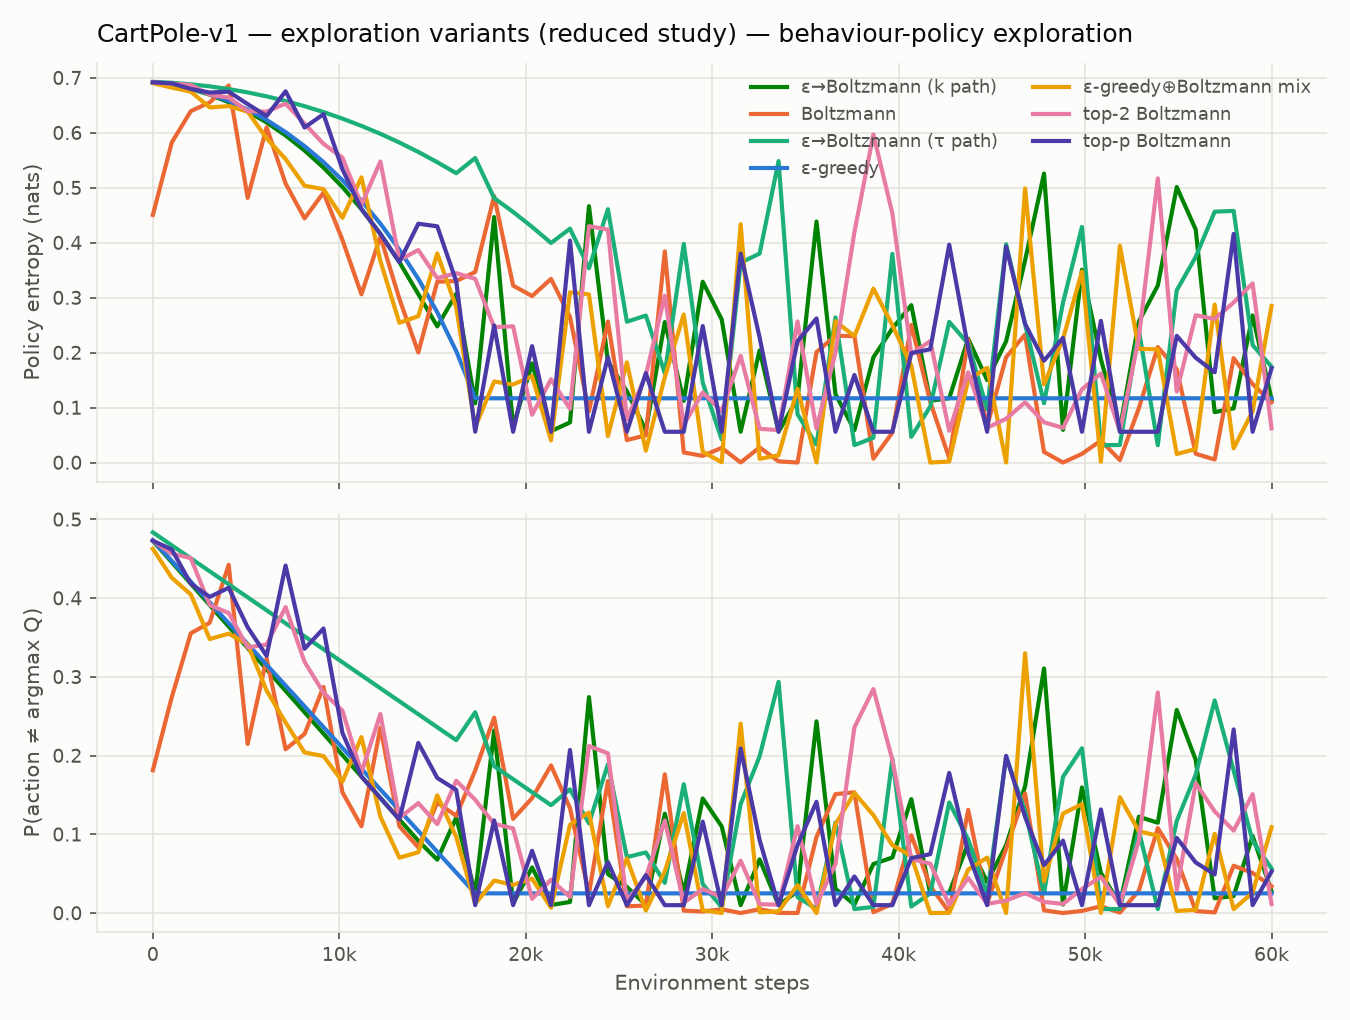
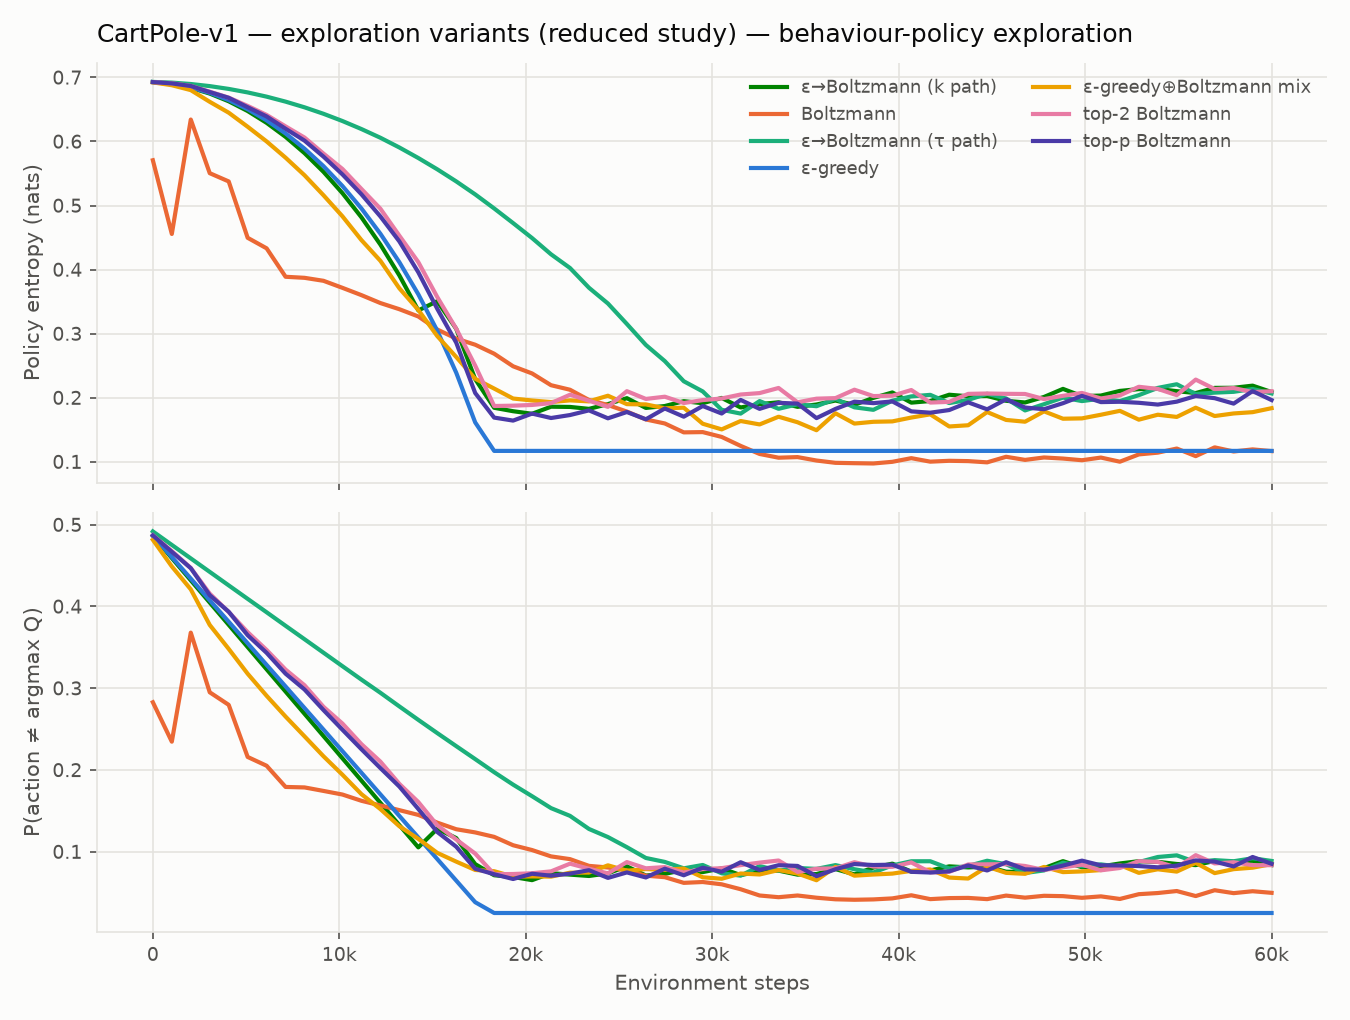
Wire the Acrobot sweeps into the plotting script
Adds titles for acrobot_gym and points the ablation and uncertainty studies at
their new environment. The uncertainty sweep's probability-of-improvement
column is measured against the ENSEMBLE epsilon-greedy arm rather than the
single-head one, so the comparison isolates the gating from the architecture
change; noted in a comment so it does not get "simplified" later.

Also drops the CartPole report figures' method sections into report/REPORT.md.

Claude-Session: https://claude.ai/code/session_015AaaE6tUtfkv4THqhLdQRM

diff --git a/scripts/make_plots.py b/scripts/make_plots.py
@@ -32,14 +32,20 @@ from e2b.plotting import (  # noqa: E402
 from e2b.results import group_by_env, load_sweep  # noqa: E402
 
 TITLES = {
-    "reduced_gym": "CartPole-v1 — exploration variants (reduced study)",
+    "reduced_gym": "CartPole-v1 — exploration variants",
+    "acrobot_gym": "Acrobot-v1 — exploration variants",
     "main_gym": "LunarLander-v3 — exploration variants",
-    "ablation_scaling": "LunarLander-v3 — Q-value scale normalisation ablation",
-    "uncertainty": "LunarLander-v3 — uncertainty-gated handover",
+    "ablation_scaling": "Acrobot-v1 — Q-value scale normalisation ablation",
+    "uncertainty": "Acrobot-v1 — uncertainty-gated handover",
     "full_gym": "Full study",
 }
 
-BASELINE = {"reduced_gym": "eps_greedy", "main_gym": "eps_greedy",
+# The arm each sweep's probability-of-improvement column is measured against.
+# For the uncertainty sweep this is the ENSEMBLE epsilon-greedy arm, not the
+# single-head one: comparing the gated arm against a single-head baseline would
+# confound the gating with the architecture change.
+BASELINE = {"reduced_gym": "eps_greedy", "acrobot_gym": "eps_greedy",
+            "main_gym": "eps_greedy",
             "ablation_scaling": "scaling_running", "uncertainty": "eps_greedy_ensemble",
             "full_gym": "eps_greedy"}
 

diff --git a/report/REPORT.md b/report/REPORT.md
@@ -1,0 +1,241 @@
+# From ε-greedy to Boltzmann: annealing exploration in DQN
+
+**RL course project — first iteration, OpenAI Gym environments.**
+
+---
+
+## 1. Problem
+
+ε-greedy is the default exploration strategy for discrete-action value-based
+agents. It is *uninformed*: with probability ε it draws uniformly from the whole
+action set, spending most of its exploration budget on actions the Q-function
+already ranks last. Boltzmann (softmax) exploration is *informed*: it samples in
+proportion to `exp(Q/τ)`, so exploration concentrates on actions that look good.
+
+The catch is that Boltzmann inherits whatever prior the Q-function encodes, and
+early in training that prior is noise. A softmax over a randomly initialised
+network is not a uniform policy — it is a policy *biased by initialisation
+noise*, which is strictly worse than the honest uniform draw ε-greedy makes. So
+the sensible thing is to start with ε-greedy and move to Boltzmann as Q becomes
+trustworthy.
+
+This project asks **how** to make that transfer, and measures whether it helps.
+
+## 2. Method: one policy family, several paths through it
+
+The design decision that organises everything here is to refuse to treat
+ε-greedy and Boltzmann as two separate strategies to be blended ad hoc. Instead,
+every variant is a point in a single parameterised family:
+
+```
+π(a|s) = ε_t · Uniform(A)  +  (1 − ε_t) · Softmax_{a ∈ TopK_t(Q)}( Q̃(s,·) / τ_t )
+```
+
+with three scheduled knobs — `ε_t` (uniform floor), `τ_t` (temperature), `k_t`
+(support size) — and a Q-scaling map `Q̃` discussed in §3.
+
+Both classic strategies are **exact** points in this family:
+
+| configuration | is exactly |
+|---|---|
+| `k = 1`, any `τ` | ε-greedy (the softmax support is the argmax set) |
+| `τ → 0`, `k = \|A\|` | ε-greedy (non-maximal exponents underflow to 0) |
+| `ε = 0`, `k = \|A\|` | pure Boltzmann |
+
+This is not a convenient approximation: `tests/test_policies.py` asserts these
+as exact array equalities against independently written reference
+implementations, across a grid of ε and τ, including the tie-breaking behaviour
+(both limits must spread mass uniformly over tied maxima — and ties are the norm
+at initialisation, when every action has near-identical Q).
+
+Having exact endpoints matters because it makes "annealing between them" a
+well-defined operation: a *path through (ε, τ, k) space*. The two ideas in the
+brief are then two different paths.
+
+**The temperature path** (`eps_boltzmann`, brief idea 1). Hold `k = |A|` and
+start at `τ = 10⁻⁴`, which makes the softmax an exact argmax, so the policy *is*
+ε-greedy. Then raise `τ` geometrically to 0.3 while `ε` falls from 1.0 to 0.01.
+The policy deforms continuously into pure Boltzmann without ever leaving the
+family.
+
+**The support path** (`anneal_k`, brief ideas 1+2). Hold `τ` fixed and grow `k`
+from 1 (again exactly ε-greedy) to `|A|` (full Boltzmann). The handover happens
+by *widening the support* rather than by raising the temperature.
+
+**The mixture path** (`mixture_anneal`, brief idea 1a). Interpolate the two
+action *distributions* outright: `π = (1−β)·π_ε-greedy + β·π_Boltzmann`. This is
+genuinely different from the temperature path, not a reparameterisation: at
+β = 0.5 the policy retains a real chance of a uniformly random action inherited
+from the ε-greedy component, even in states where Boltzmann is confident,
+whereas the temperature path passes through distributions that are neither
+endpoint. Which behaves better is an empirical question, and one of the things
+measured here.
+
+**Fixed small support** (`topk_boltzmann`, `topk3_boltzmann`, brief idea 2).
+Boltzmann over the top 2 or 3 actions with a decaying ε floor. The rationale
+from the brief: a noisy Q-function often ranks the truly-best action second, so
+spreading probability over the top few actions explores precisely the plausible
+alternatives. The ε floor is retained (decaying to 0.02) so that an action
+wrongly excluded from the top-k is not unreachable forever.
+
+**State-adaptive support** (`topp_boltzmann`). Nucleus sampling: the support is
+the smallest set of highest-Q actions whose softmax mass reaches `p = 0.9`.
+Where Q is peaked the support collapses towards greedy; where Q is flat — which
+is exactly where the agent has no basis for a preference — it widens. This
+spends exploration where the Q-function is undecided rather than uniformly in
+time.
+
+## 3. The detail that decides whether any of this works: Q-value scale
+
+A temperature is only meaningful relative to the spread of the values it
+divides, and that spread is not a constant:
+
+- across environments it differs by orders of magnitude (CartPole returns
+  ~10–500, LunarLander ~−400–300, clipped Atari ~0–50);
+- **within a single run it grows steadily**, as the value function inflates from
+  its near-zero initialisation towards the true return scale.
+
+So a fixed τ that produces healthy exploration at 20k steps is effectively
+greedy at 300k steps, through no change in the schedule. Any comparison of
+"ε-greedy vs Boltzmann" that ignores this is really measuring an uncontrolled,
+environment-specific annealing schedule that the experimenter did not choose.
+
+Three modes are implemented and ablated:
+
+- **`none`** — `Q̃ = Q`. The temperature carries raw Q units. Included to
+  demonstrate the failure mode rather than assert it.
+- **`per_state`** — `Q̃ = (Q − mean_a Q)/(std_a Q + δ)`, computed independently
+  at each state. Dimensionless, but it *destroys information*: a state where
+  every action is genuinely equally good has its tiny Q spread inflated to unit
+  variance, so the policy becomes confidently peaked on what is really numerical
+  noise. That is exactly backwards from what exploration should do.
+- **`running`** (default) — `Q̃ = (Q − mean_a Q)/σ̂`, where `σ̂` is an EMA of the
+  across-action Q spread over recently visited states. Dimensionless *and* the
+  normaliser is shared across states, so a flat Q-row stays flat and yields a
+  near-uniform policy while a peaked row stays peaked.
+
+`tests/test_scaling.py` verifies that under `running` two Q-rows with identical
+shape but magnitudes differing by 1000× produce the *same* action distribution
+to within floating-point error, and that under `none` they do not (one is
+meaningfully stochastic, the other has collapsed to greedy).
+
+## 4. Extension: uncertainty-gated handover
+
+A step-count schedule is a guess about when Q becomes trustworthy. The extension
+replaces it with a measurement.
+
+Given a confidence `c ∈ [0,1]`, the knobs are interpolated between an uncertain
+endpoint (`ε = 1`, `k = 1` — i.e. ε-greedy) and a confident endpoint
+(`ε = 0.01`, `k = |A|`, `τ = 0.3` — i.e. Boltzmann). Temperature is interpolated
+geometrically, since it spans orders of magnitude.
+
+Two signals:
+
+- **`ensemble`** — 5 bootstrapped Q-heads on a shared torso (Bernoulli(0.8)
+  masks stored per transition), `u(s) = mean_a std_k Q_k(s,a)`. This is
+  **per-state**: the agent can be Boltzmann in a well-visited region while still
+  ε-greedy in an unfamiliar one. No time-based schedule can express that. It
+  measures epistemic uncertainty — what the data has not pinned down — rather
+  than the intrinsic randomness of the return.
+- **`td_error`** — an EMA of |TD error|, which prioritized replay already
+  computes, so it is free. It is a single *global* scalar, so it can only
+  produce a time-varying schedule — albeit one driven by measured learning
+  progress rather than by step count.
+
+Both normalise the raw signal against a running high-quantile of its own
+history, so confidence is scale-free. This is essential: uncertainty falls by
+orders of magnitude over training, so any fixed threshold would trip once and
+never move again, collapsing the adaptive scheme into a step function.
+
+Two guards proved necessary in practice. **Warm-up**: before the reference
+quantile has data, confidence is pinned to 0, otherwise the first states report
+spurious high confidence and the run starts in near-greedy Boltzmann on a random
+network — the worst possible combination. **Smoothing**: `confidence_smoothing`
+interpolates between the raw per-state signal (1.0) and a global EMA (0.0),
+which doubles as the ablation isolating "per-state resolution" from "adaptive
+timing".
+
+### Why the control arm is the crux
+
+Bootstrapped ensemble heads change *value learning*, not just uncertainty
+measurement. Comparing `uncertainty_gated`-with-ensemble against single-head
+ε-greedy would confound the gating with the architecture. The uncertainty sweep
+therefore includes `eps_greedy_ensemble` — plain ε-greedy running the **same**
+5-head architecture — as the arm that actually answers the research question,
+plus a single-head ε-greedy arm to quantify what the architecture change alone
+does.
+
+## 5. Base agent
+
+**Double + Dueling + n-step(3) + prioritized replay** — Rainbow minus NoisyNets
+minus distributional.
+
+**NoisyNets is deliberately excluded.** It is itself an exploration mechanism —
+learned parameter noise — and is known to make ε-greedy redundant. Including it
+would give every arm a second, uncontrolled exploration strategy underneath the
+one being measured, damping exactly the differences this study exists to detect.
+When the exploration strategy *is* the object of study, the base agent must have
+none of its own.
+
+**C51 is excluded** for cost (roughly 2× CPU time per step) and because the
+spread it provides is aleatoric, whereas the extension needs epistemic
+uncertainty — which the ensemble heads supply directly.
+
+Every other component is held identical across arms. `configs/base.yaml` is
+shared by every arm and the config loader **rejects unknown keys** rather than
+ignoring them, so a typo in an experiment config fails loudly instead of
+silently producing a run that tested the wrong thing.
+
+## 6. Protocol
+
+- **Evaluation is always greedy**, in a separate environment with its own seed
+  stream, 10 episodes per point. This is the only way the comparison is
+  meaningful: a Boltzmann behaviour policy scores differently from an ε-greedy
+  one for reasons unrelated to how well it learned, so measuring the behaviour
+  policy's own return would conflate exploration cost with learning quality.
+  Argmax ties are broken uniformly at random, not by index — index tie-breaking
+  biases evaluation toward low-numbered actions for an under-trained network.
+- **Aggregation** uses **IQM** (interquartile mean) with **stratified bootstrap**
+  95% CIs over seeds, following Agarwal et al. (2021). The mean over 3–5 seeds
+  is the wrong statistic for DQN, which produces catastrophic-failure seeds
+  often enough to move it substantially; IQM is far more robust and much less
+  noisy than the median. `probability_of_improvement` is also reported: it asks
+  the question a practitioner actually has ("if I run this once, will it beat
+  the baseline?") and is robust to a single outlying seed.
+- **Two headline metrics.** *Final return* averages the last 3 evaluation points
+  (a single point is close to meaningless on a noisy DQN curve). *AUC* is the
+  mean return over all evaluation points — a sample-efficiency proxy. For an
+  exploration study the path matters as much as the destination: two arms can
+  finish equal with very different costs along the way.
+- **Exploration diagnostics.** ε, τ and k are *not* comparable across
+  strategies — an ε of 0.05 and a τ of 0.3 are not "the same amount" of
+  exploration, and how much exploration a given τ buys drifts as the Q-scale
+  grows. So the comparable measures are **behaviour-policy entropy** and
+  **P(action ≠ argmax Q)**, both averaged over each logging interval. These are
+  what let the report distinguish "the schedule moved" from "the behaviour
+  changed".
+
+### 6.1 Compute budget and what it constrains
+
+All experiments ran on a **4-core CPU box with no GPU**. Measured throughput of
+the identical agent differs sharply by environment:
+
+| environment | actions | steps/s per worker | why |
+|---|---|---|---|
+| CartPole-v1 | 2 | ~400 | trivial physics |
+| Acrobot-v1 | 3 | ~400 | trivial physics |
+| LunarLander-v3 | 4 | **~50** | Box2D contact solving dominates |
+
+LunarLander is therefore ~8× more expensive per step than the classic-control
+tasks, which is what set the step budgets below. This is a real constraint on
+the conclusions, and §10 says so plainly rather than presenting the numbers as
+though they came from a full-budget study.
+
+| study | environment | steps | arms | seeds |
+|---|---|---|---|---|
+| main comparison | CartPole-v1 | 60k | 7 | 3 |
+| main comparison | Acrobot-v1 | 100k | 8 | 3 |
+| main comparison | LunarLander-v3 | 120k | 8 | 3 |
+| Q-scaling ablation | Acrobot-v1 | 100k | 3 | 3 |
+| uncertainty extension | Acrobot-v1 | 100k | 5 | 3 |
+

diff --git a/results/summaries/reduced_gym_table.md b/results/summaries/reduced_gym_table.md
@@ -1,0 +1,11 @@
+### CartPole-v1
+
+| Variant | Final return (IQM, 95% CI) | AUC (IQM, 95% CI) | P(beats ε-greedy) | seeds |
+|---|---|---|---|---|
+| top-p Boltzmann | 348.7 [310.7, 375.9] | 332.9 [318.7, 356.3] | 0.56 [0.00, 1.00] | 3 |
+| ε-greedy | 344.1 [303.0, 378.6] | 321.2 [281.0, 344.0] | (baseline) | 3 |
+| ε-greedy⊕Boltzmann mix | 337.7 [301.7, 383.7] | 317.1 [289.0, 370.0] | 0.44 [0.00, 1.00] | 3 |
+| ε→Boltzmann (τ path) | 322.8 [265.4, 356.2] | 307.9 [265.3, 331.0] | 0.33 [0.00, 0.89] | 3 |
+| top-2 Boltzmann | 293.1 [210.3, 334.7] | 275.2 [209.4, 317.4] | 0.22 [0.00, 0.67] | 3 |
+| ε→Boltzmann (k path) | 259.8 [240.1, 293.7] | 262.4 [224.1, 294.1] | 0.00 [0.00, 0.00] | 3 |
+| Boltzmann | 157.3 [108.2, 221.8] | 149.1 [107.7, 195.5] | 0.00 [0.00, 0.00] | 3 |
